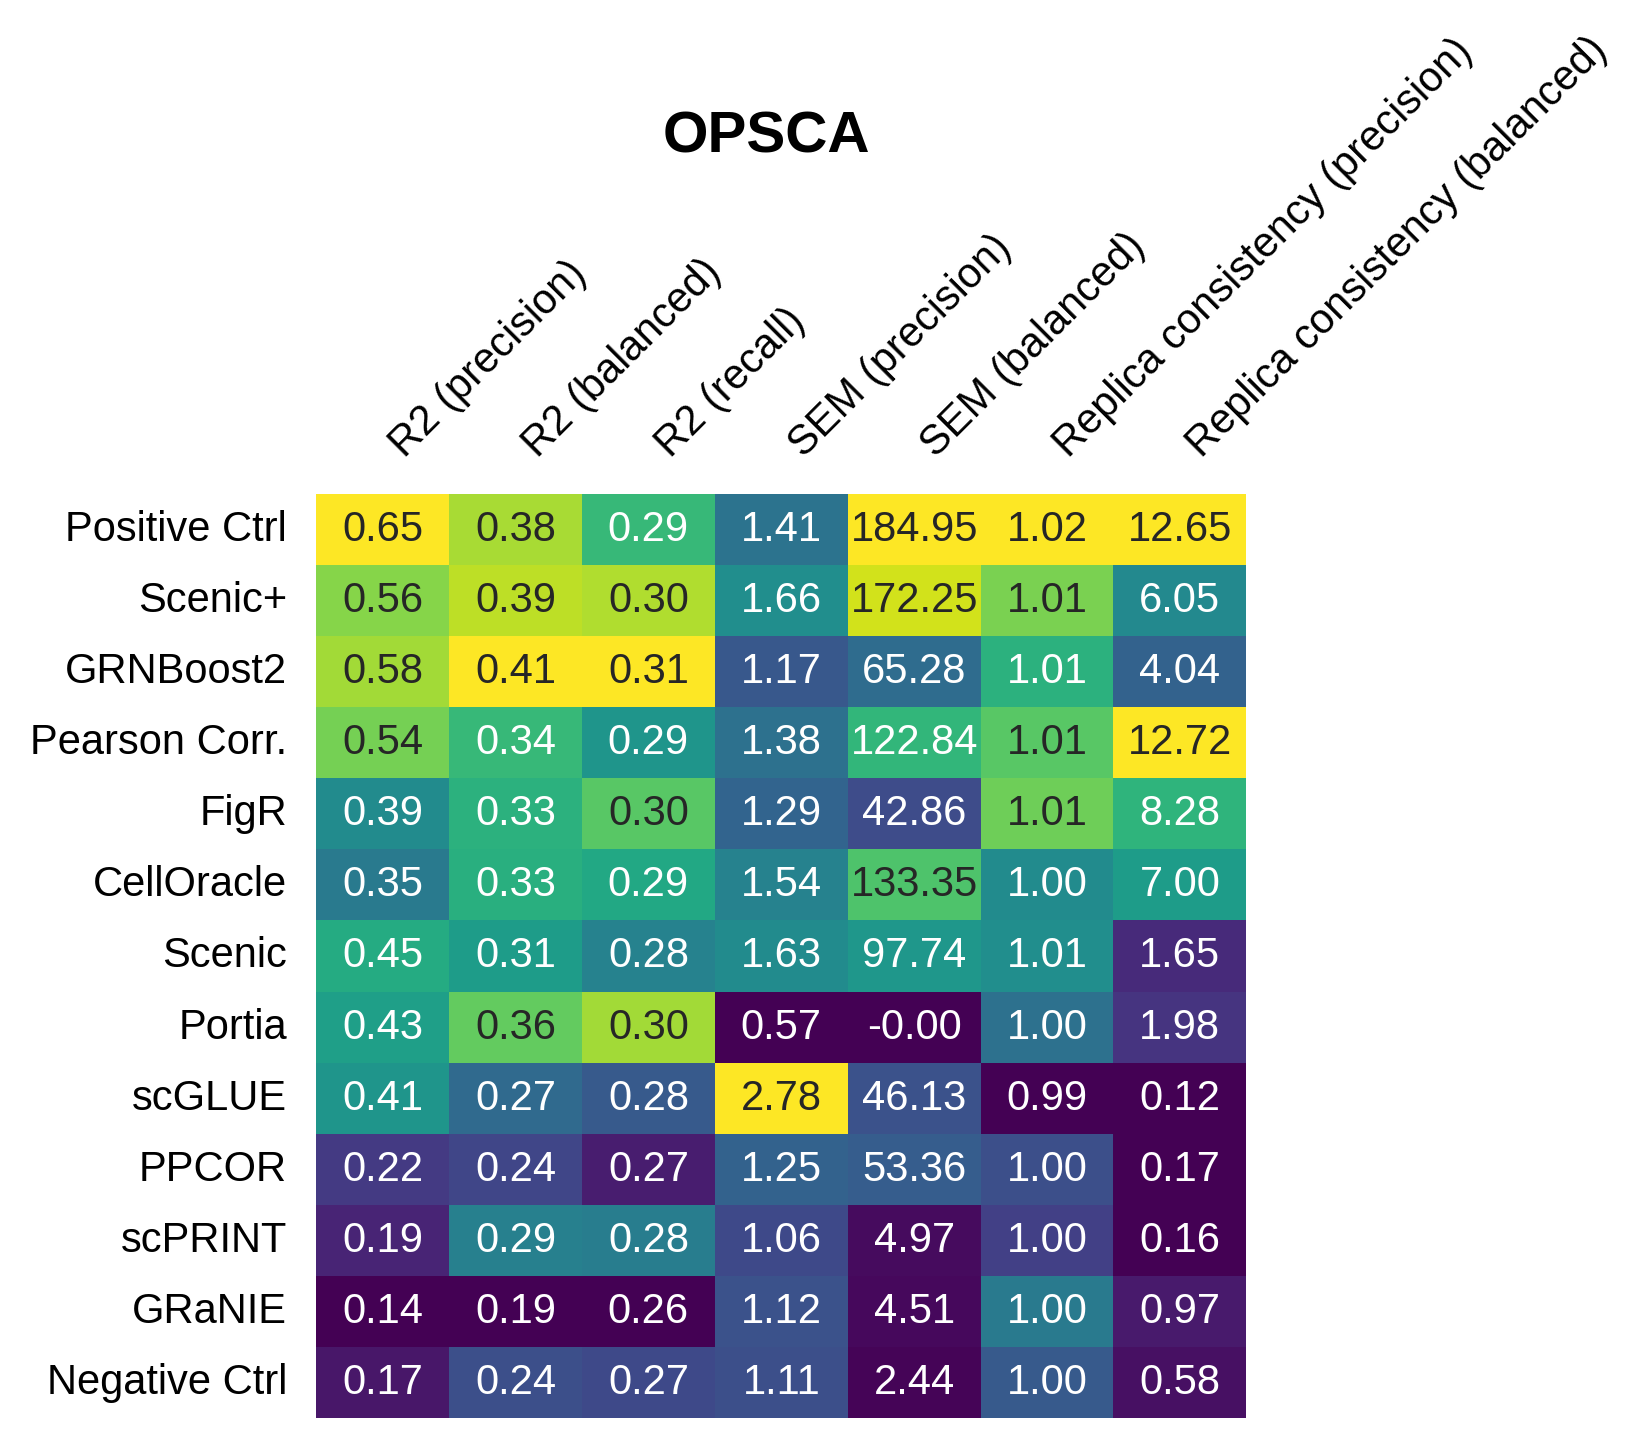
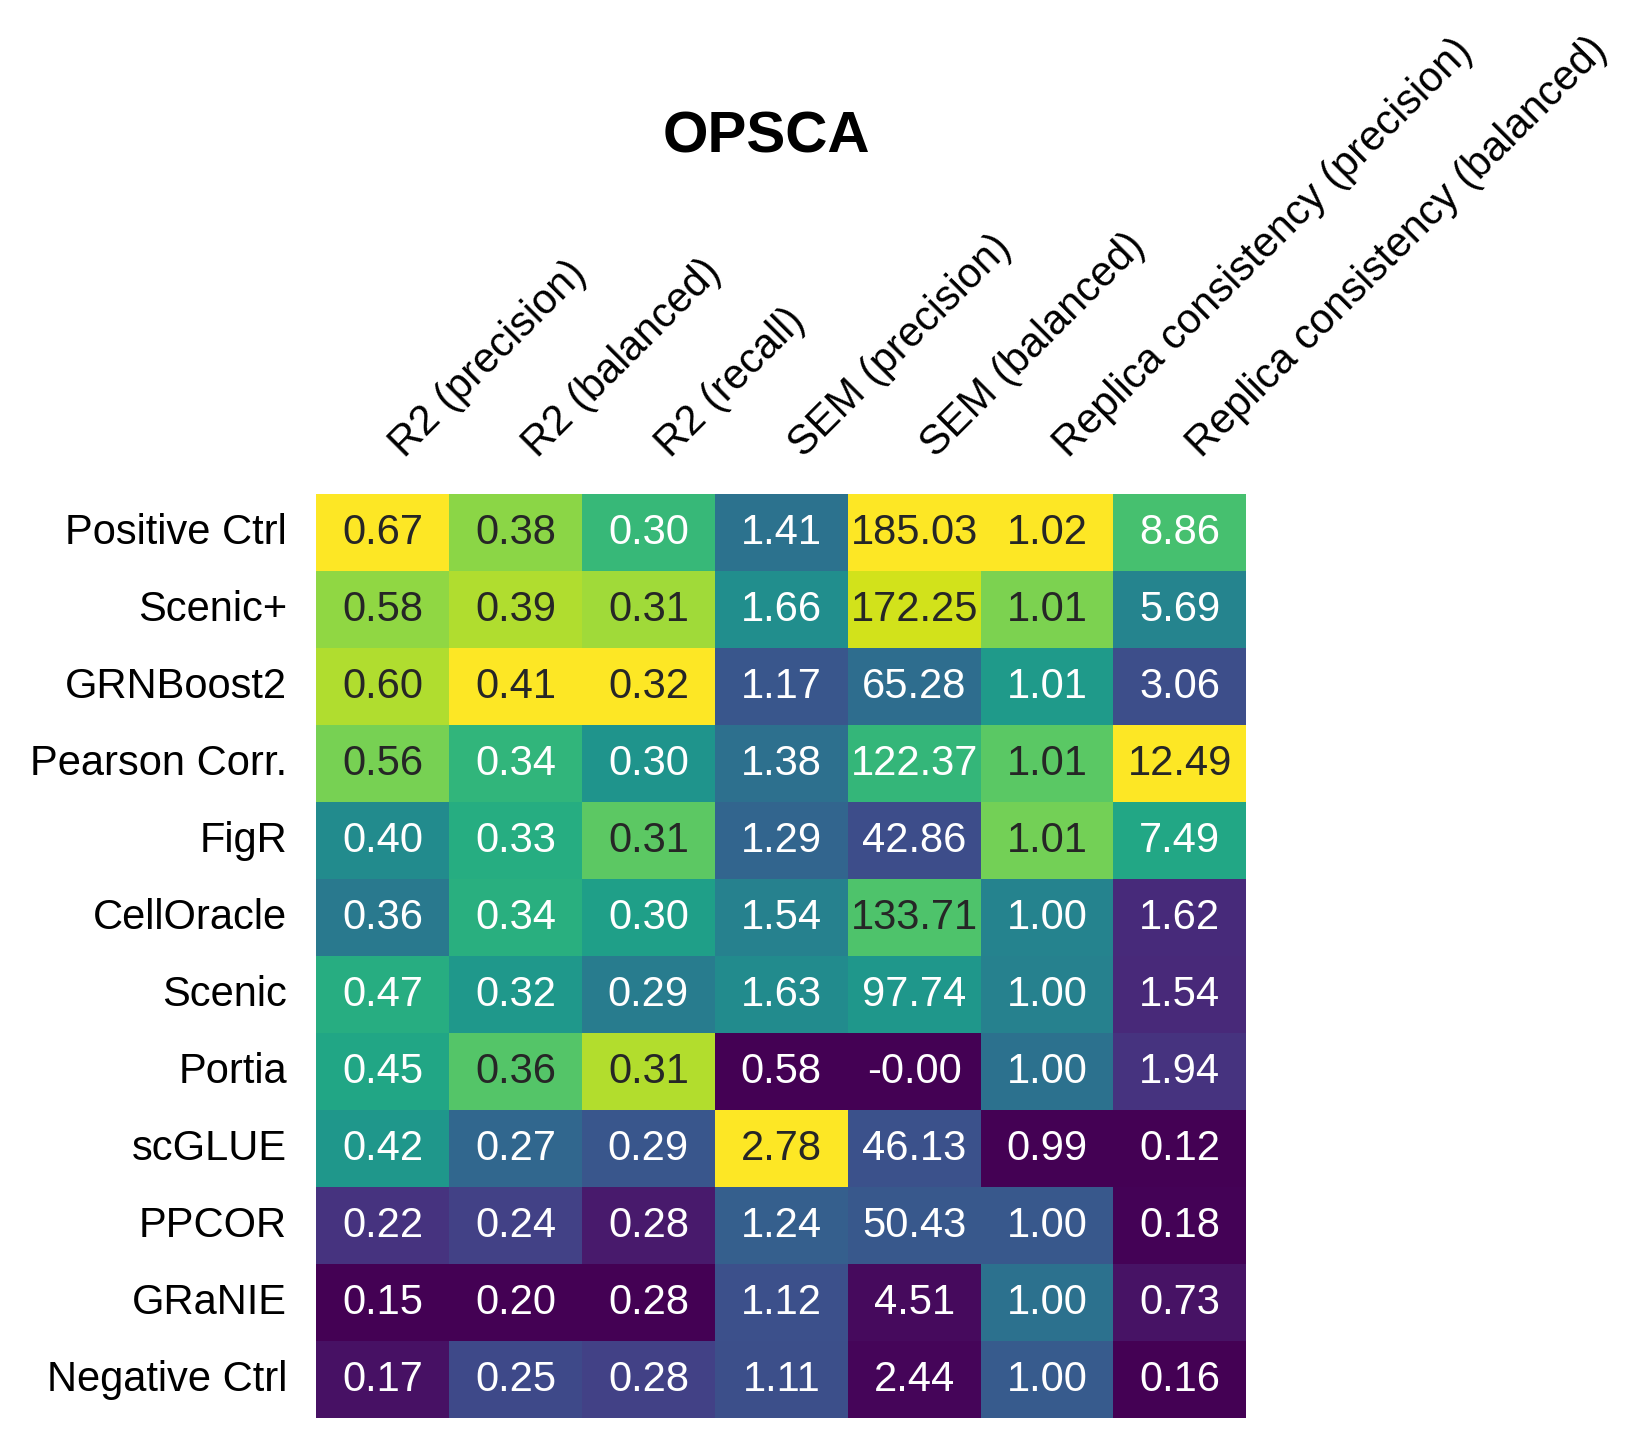
deterministic sem and tf recovery

Changed region(s): [[0.0, 0.3419, 0.7751, 0.9634], [0.031, 0.3419, 0.155, 0.3729]]

diff --git a/src/metrics/sem/helper.py b/src/metrics/sem/helper.py
@@ -34,6 +34,8 @@ torch.manual_seed(seed)
 torch.cuda.manual_seed(seed)
 torch.cuda.manual_seed_all(seed)
 torch.use_deterministic_algorithms(True)
+torch.backends.cudnn.deterministic = True
+torch.backends.cudnn.benchmark = False
 
 
 from util import read_prediction, manage_layer, create_grn_baseline
@@ -84,27 +86,67 @@ def combine_multi_index(*arrays) -> np.array:
     n_classes = tuple(int(A[i].max()) + 1 for i in range(A.shape[0]))
     return np.ravel_multi_index(A, dims=n_classes, order='C')
 
+import numpy as np
 
-def compute_perturbations(X, are_controls, groups: np.array, loose_match_groups: np.array) -> np.ndarray:
-    # Compute perturbations as differences between samples and their matched controls.
-    # By matched control, we mean a negative control from the same donor, located on
-    # the same plate, from the same cell type, and eventually from the same well.
-    # By construction, perturbations will be 0 for control samples.
+def compute_perturbations(X, are_controls, groups: np.ndarray, loose_match_groups: np.ndarray) -> np.ndarray:
+    """
+    Compute perturbations as differences between samples and their matched controls.
+    Each sample is compared to its matched control (from the same donor, plate, etc.).
+    If no matching control is found (even for loose grouping), assign any available control.
+
+    Parameters
+    ----------
+    X : np.ndarray
+        Expression or feature matrix (samples × features)
+    are_controls : np.ndarray (bool)
+        Boolean array indicating which samples are controls
+    groups : np.ndarray
+        Strict matching groups (e.g., donor+plate+celltype)
+    loose_match_groups : np.ndarray
+        Looser matching groups (e.g., donor+plate)
+    """
+
     delta_X = np.copy(X)
     control_map, loose_control_map = {}, {}
+
+    # Build maps for strict and loose control matching
     for i, (is_control, group_id) in enumerate(zip(are_controls, groups)):
         if is_control:
             control_map[group_id] = i
     for i, (is_control, group_id) in enumerate(zip(are_controls, loose_match_groups)):
         if is_control:
             loose_control_map[group_id] = i
-    
+
+    # Identify any available control indices (for fallback)
+    all_controls = np.where(are_controls)[0]
+    if len(all_controls) == 0:
+        raise RuntimeError("No control samples found at all — cannot compute perturbations.")
+
+    # Compute perturbations
     for i, (group_id, loose_group_id) in enumerate(zip(groups, loose_match_groups)):
-        if group_id in control_map:
-            j = control_map[group_id]
-        else:
-            j = loose_control_map[loose_group_id]
-        delta_X[i, :] -= delta_X[j, :]
+        try:
+            if group_id in control_map:
+                j = control_map[group_id]
+            elif loose_group_id in loose_control_map:
+                j = loose_control_map[loose_group_id]
+            else:
+                # Fall back to any available control (e.g., first one)
+                j = all_controls[0]
+
+            delta_X[i, :] -= X[j, :]
+
+        except Exception as e:
+            raise RuntimeError(
+                f"Failed to compute perturbation for sample index {i}:\n"
+                f"  group_id = {group_id}\n"
+                f"  loose_group_id = {loose_group_id}\n"
+                f"  Are controls found for this group? "
+                f"Strict = {group_id in control_map}, Loose = {loose_group_id in loose_control_map}\n"
+                f"  Fallback control used = {len(all_controls) > 0}\n"
+                f"  Total controls available: {sum(are_controls)} / {len(are_controls)}\n"
+                f"Hint: Loose grouping may be inconsistent; used fallback control."
+            ) from e
+
     return delta_X
 
 
@@ -169,7 +211,7 @@ def regression_based_grn_inference(X: np.ndarray, base: np.ndarray, signed: bool
     n_genes = X.shape[1]
     A = np.zeros((n_genes, n_genes), dtype=X.dtype)
     for j in tqdm.tqdm(range(n_genes)):
-        model = ElasticNet(alpha=0.001, fit_intercept=False)
+        model = ElasticNet(alpha=0.001, fit_intercept=False, random_state=seed)
         if not np.any(mask[:, j]):
             continue  # If gene has no regulator, skip it.
         model.fit(X[:, mask[:, j]], X[:, j])
@@ -224,6 +266,9 @@ def evaluate_grn(
     mask = torch.from_numpy(mask).to(torch.bool)
     A = torch.nn.Parameter(torch.from_numpy(A))
     A_eff = torch.abs(A) * signs if signed else A * mask
+    
+    # Set manual seed again before optimizer initialization for determinism
+    torch.manual_seed(seed)
     optimizer = torch.optim.Adam([A], lr=learning_rate)
     scheduler = torch.optim.lr_scheduler.ReduceLROnPlateau(
         optimizer, mode='min', patience=5,
@@ -298,6 +343,9 @@ def main(par):
     cv_groups = encode_obs_cols(adata, par['cv_groups'])
     match_groups = encode_obs_cols(adata, par['match'])
     loose_match_groups = encode_obs_cols(adata, par['loose_match'])
+    assert len(cv_groups) > 0, "No cv_groups could be encoded."
+    assert len(match_groups) > 0, "No match_groups could be encoded."
+    assert len(loose_match_groups) > 0, "No loose_match_groups could be encoded."
     cv_groups = combine_multi_index(*cv_groups)
     match_groups = combine_multi_index(*match_groups)
     loose_match_groups = combine_multi_index(*loose_match_groups)
@@ -376,7 +424,11 @@ def main(par):
     print(f"Use regulatory modes/signs: {use_signs}")
 
     # Create baseline model
-    A_baseline = create_grn_baseline(A)
+    try:
+        A_baseline = create_grn_baseline(A)
+    except:
+        print("Failed to create baseline GRN. Using zero baseline.")
+        raise ValueError("Failed to create baseline GRN.")
 
     # Evaluate inferred GRN
     print("\n======== Evaluate inferred GRN ========")

diff --git a/src/utils/util.py b/src/utils/util.py
@@ -252,60 +252,6 @@ def corr_net(adata, tf_all, par) -> pd.DataFrame:
     return net
 
 
-# def plot_heatmap(scores, ax=None, name="", fmt="0.02f", cmap="viridis"):
-#     import matplotlib.pyplot as plt
-#     import numpy as np
-#     import seaborn
-
-#     if ax is None:
-#         fig, ax = plt.subplots(1, 1, figsize=(4, 4), sharey=True)
-
-#     # Normalize each column individually
-#     scores_normalized = scores.apply(
-#         lambda x: (x - np.nanmin(x)) / (np.nanmax(x) - np.nanmin(x)), axis=0
-#     )
-#     scores_normalized = scores_normalized.round(2)
-#     # scores_normalized['Rank'] = scores['Rank'].max()-scores['Rank']
-#     # scores_normalized['Rank'] = scores_normalized['Rank']/scores_normalized['Rank'].max()
-
-#     # Define the color scale range for each column (0 to 1 after normalization)
-#     vmin = 0
-#     vmax = 1
-
-#     # Plot the heatmap with normalized scores
-#     seaborn.heatmap(
-#         scores_normalized,
-#         ax=ax,
-#         square=False,
-#         cbar=False,
-#         annot=True,
-#         fmt=fmt,
-#         vmin=vmin,
-#         vmax=vmax,
-#         cmap=cmap,
-#     )
-#     # Overlay the original (unnormalized) scores as annotations
-#     # scores['Rank'] = scores['Rank'].astype(int)
-#     # print(scores['Rank'])
-#     # Overlay the original (unnormalized) scores as annotations
-#     for text, (i, j) in zip(ax.texts, np.ndindex(scores.shape)):
-#         value = scores.iloc[i, j]
-#         if isinstance(value, np.int64):  # Check if the value is an integer for 'Rank'
-#             text.set_text(f"{value:d}")
-#         else:
-#             text.set_text(f"{value:.2f}")
-
-#     # Customize the axes and title
-#     ax.tick_params(left=False, bottom=False)
-#     ax.xaxis.set_tick_params(width=0)
-#     ax.yaxis.set_tick_params(width=0)
-#     ax.set_title(name, pad=10)
-
-#     ax.xaxis.set_label_position("top")
-#     ax.xaxis.tick_top()
-#     ax.set_xticklabels(ax.get_xticklabels(), rotation=45, ha="left")
-
-
 def read_gmt(file_path: str) -> dict[str, list[str]]:
     """Reas gmt file and returns a dict of gene"""
     gene_sets = {}

diff --git a/src/metrics/tf_recovery/helper.py b/src/metrics/tf_recovery/helper.py
@@ -9,15 +9,36 @@ from scipy.stats import ttest_rel
 
 from util import read_prediction
 
-def calculate_ulm_score(tf_mat, tf_grn):
-    """Calculate ULM score for a TF and its network."""
-    act, pval = dc.run_ulm(
-        mat=tf_mat,
-        net=tf_grn,
-        weight='weight',
-        min_n=3,
+def calculate_ulm_score(tf_mat, tf_grn, min_targets=3):
+    """Calculate ULM score for a TF and its network using new dc.mt.ulm API.
+    
+    Args:
+        tf_mat: DataFrame with TF expression (rows=TFs, cols=genes)
+        tf_grn: DataFrame with network edges (source, target, weight)
+        min_targets: Minimum number of targets required
+    
+    Returns:
+        tuple: (activity_score, pvalue)
+    """
+    # Create AnnData object from the TF matrix
+    # tf_mat has TF as index (rows), genes as columns
+    # AnnData expects obs=samples, var=genes
+    adata = ad.AnnData(X=tf_mat.values)
+    adata.var_names = tf_mat.columns
+    adata.obs_names = tf_mat.index
+    
+    # Run ULM with new API (dc.mt.ulm modifies adata in place)
+    dc.mt.ulm(
+        adata,
+        tf_grn,
+        tmin=min_targets
     )
-    return act.values[0, 0], pval.values[0, 0]
+    act = adata.obsm['score_ulm'].iloc[0,0]
+    pval = adata.obsm['padj_ulm'].iloc[0, 0]
+
+    
+    
+    return act, pval
 
 def create_random_network(tf, n_targets, all_genes):
     """Create a random network for a TF."""
@@ -30,13 +51,16 @@ def create_random_network(tf, n_targets, all_genes):
 
 def calculate_precision_recall(acts, pvals, total_tfs):
     """Calculate precision and recall scores."""
-    padj = dc.p_adjust_fdr(pvals)
-    tp = np.sum((acts < 0) & (padj < 0.05))
+    tp = np.sum((acts < 0) & (pvals < 0.05))
     prc = tp / acts.size if tp > 0 else 0.0
     rcl = tp / total_tfs if tp > 0 else 0.0
     return prc, rcl
 
 def main(par):
+    # Set random seed for reproducibility
+    seed = par.get('seed', 42)
+    np.random.seed(seed)
+    
     df_de = ad.read_h5ad(par['evaluation_data_de'])
     df_de = df_de.to_df()  # convert X to DataFrame
     net = read_prediction(par)

diff --git a/src/metrics/replica_consistency/helper.py b/src/metrics/replica_consistency/helper.py
@@ -121,7 +121,11 @@ def evaluate_setting(C: np.ndarray, A: np.ndarray, setting_name: str, **kwargs) 
     scores = evaluate_grn(C, A, **kwargs)
 
     # Create baseline model
-    A_baseline = create_grn_baseline(A)
+    try:
+        A_baseline = create_grn_baseline(A)
+    except:
+        print("Failed to create baseline GRN. Using zero baseline.")
+        raise ValueError("Failed to create baseline GRN.")
 
     # Evaluate baseline GRN
     scores_baseline = evaluate_grn(C, A_baseline, **kwargs)

diff --git a/src/metrics/sem/script.py b/src/metrics/sem/script.py
@@ -7,8 +7,8 @@ import pandas as pd
 
 ## VIASH START
 par = {
-    'prediction': f'resources/results/op/op.pearson_corr.pearson_corr.prediction.h5ad',
-    'evaluation_data': f'resources/grn_benchmark/evaluation_data/op_bulk.h5ad',
+    'prediction': f'resources/results/replogle/replogle.pearson_corr.pearson_corr.prediction.h5ad',
+    'evaluation_data': f'resources/grn_benchmark/evaluation_data/replogle_bulk.h5ad',
     'layer': 'lognorm',
     "max_n_links": 50000,
     'num_workers': 20,

diff --git a/src/metrics/tf_recovery/script.py b/src/metrics/tf_recovery/script.py
@@ -37,7 +37,7 @@ if __name__ == "__main__":
     try:
         output = main(par)
         method_id = ad.read_h5ad(par['prediction'], backed='r').uns['method_id']
-        dataset_id = ad.read_h5ad(par['evaluation_data'], backed='r').uns['dataset_id']
+        dataset_id = ad.read_h5ad(par['evaluation_data_de'], backed='r').uns['dataset_id']
     except:
         print(f"Error in TF recovery evaluation")
         output = pd.DataFrame({

diff --git a/src/metrics/all_metrics/helper.py b/src/metrics/all_metrics/helper.py
@@ -41,7 +41,10 @@ def tf_binding_metric(par, dataset_id):
 def replica_consistency_metric(par, dataset_id):
     if dataset_id in datasets_metrics:
         if 'replica_consistency' in datasets_metrics[dataset_id]:
-            output = main_replica_consistency(par)
+            try:
+                output = main_replica_consistency(par)
+            except:
+                output = None
             return output
     return None
 
